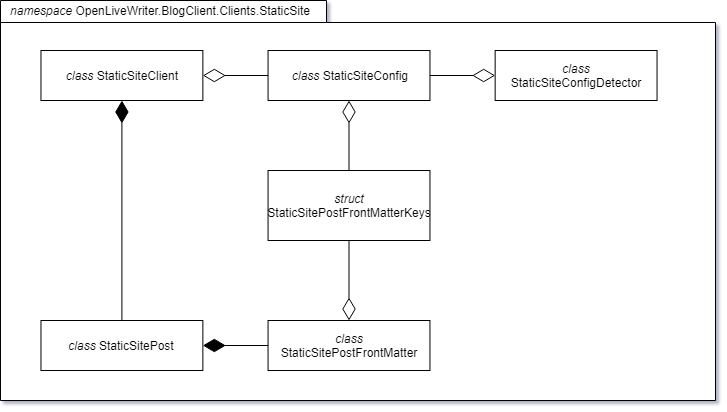
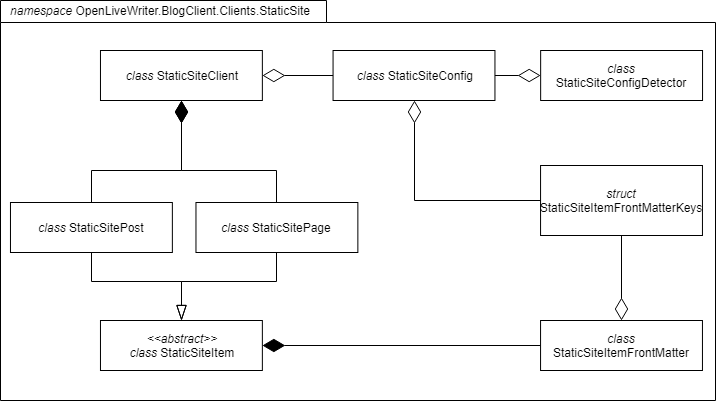
docs: ssg: update docs for new classes

diff --git a/docs/Hacking - Static Site Client.md b/docs/Hacking - Static Site Client.md
@@ -11,7 +11,9 @@ Please note that this diagram only describes classes created as part of the Stat
 |Name|Role and description|Dependency summary|
 |---|---|---|
 |StaticSiteClient|Serves as the primary interface between Open Live Writer and the Static Site Generator support. Implements Blog functions such as CRUD on posts and pages.|<ul><li>Implements IBlogClient</li><li>Inherits BlogClientBase</li><li>Creates a private `StaticSiteConfig` and loads its contents from the provided `IBlogClientCredentialsAccessor` on initiation.</li></ul>|
-|StaticSiteConfig|Defines and handles the storage and processing of configuration settings for the Static Site Generator support.|<ul><li>Instantiated in `StaticSiteClient`</li><li>Used-by-reference in `StaticSiteConfigDetector`.</li><li>Instantiates a `StaticSitePostFrontMatterKeys`, to be loaded from stored config values.</li></ul>|
-|StaticSitePost|Represents a published or yet-to-be-published post to `StaticSiteClient`. Contains methods related to loading from disk, saving to disk, and generating safe on-disk slugs and IDs, as well as other functionality.|<ul><li>Contains a `BlogPost` (from `OpenLiveWriter.Extensibility.BlogClient`)</li><li>Generates a `StaticSitePostFrontMatter` on attribute request</li></ul></ul>|
-|StaticSitePostFrontMatter|Defines and stores all possible static post front matter keys. Implements loading and saving from YAML, as well as loading and saving from a `OpenLiveWriter.Extensibility.BlogClient.BlogPost` instance.|<ul><li>Instantiated by `StaticSitePost` on request.</li><li>Retrieves and stores a `StaticSitePostFrontMatterKeys` from `StaticSiteConfig` on construction.</li></li></ul>|
-|StaticSitePostFrontMatterKeys|A subset of the static site config, `StaticSitePostFrontMatterKeys` contains the key names for each of the supported front-matter attributes. Used to support different static site generators.|<ul><li>Instantiated by StaticSiteConfig.</li><li>Used-by-reference in StaticSitePostFrontMatter</li></ul>|
+|StaticSiteConfig|Defines and handles the storage and processing of configuration settings for the Static Site Generator support.|<ul><li>Instantiated in `StaticSiteClient`</li><li>Used-by-reference in `StaticSiteConfigDetector`.</li><li>Instantiates a `StaticSiteItemFrontMatterKeys`, to be loaded from stored config values.</li></ul>|
+|StaticSiteItem|Abstract class which represents a published or yet-to-be-published generic item to `StaticSiteClient`. Contains methods related to loading and saving, as well as generic methods which are based upon through sub-classes.|<ul><li>Contains a `BlogPost` (from `OpenLiveWriter.Extensibility.BlogClient`)</li><li>Generates a `StaticSiteItemFrontMatter` on attribute request</li><li>Abstract class, never instantiated.</li></ul>|
+|StaticSitePost|Sub-class of `StaticSiteItem` representing a Post item.|Sub-classes `StaticSiteItem`|
+|StaticSitePage|Sub-class of `StaticSiteItem` representing a Page item.|Sub-classes `StaticSiteItem`|
+|StaticSiteItemFrontMatter|Defines and stores all possible static item front matter keys. Implements loading and saving from YAML, as well as loading and saving from a `OpenLiveWriter.Extensibility.BlogClient.BlogPost` instance.|<ul><li>Instantiated by `StaticSiteItem` on request.</li><li>Retrieves and stores a `StaticSiteItemFrontMatterKeys` from `StaticSiteConfig` on construction.</li></li></ul>|
+|StaticSiteItemFrontMatterKeys|A subset of the static site config, `StaticSiteItemFrontMatterKeys` contains the key names for each of the supported front-matter attributes. Used to support different static site generators.|<ul><li>Instantiated by StaticSiteConfig.</li><li>Used-by-reference in StaticSiteItemFrontMatter</li></ul>|
